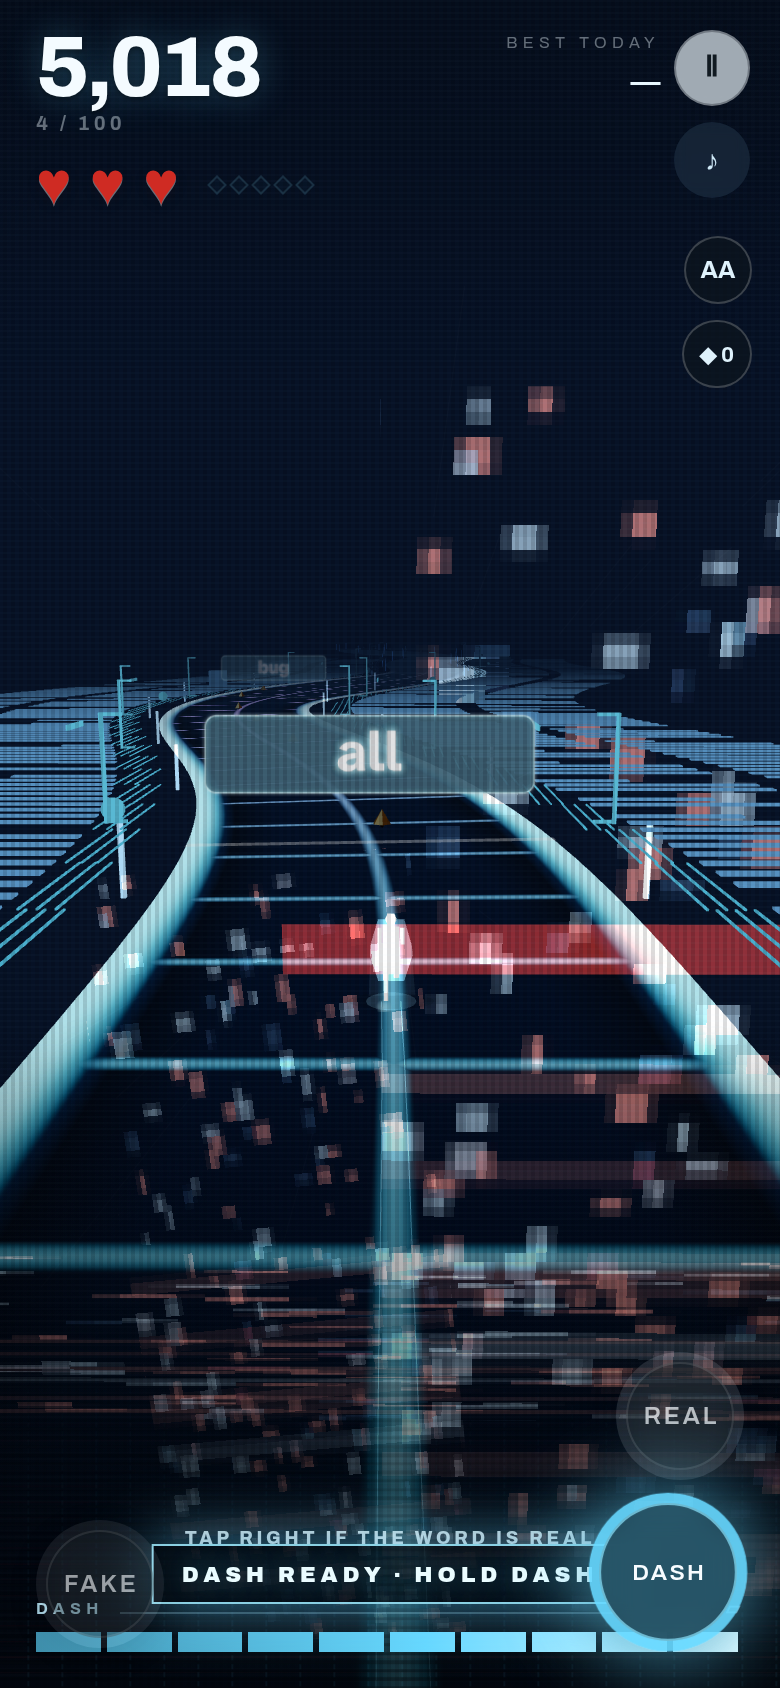
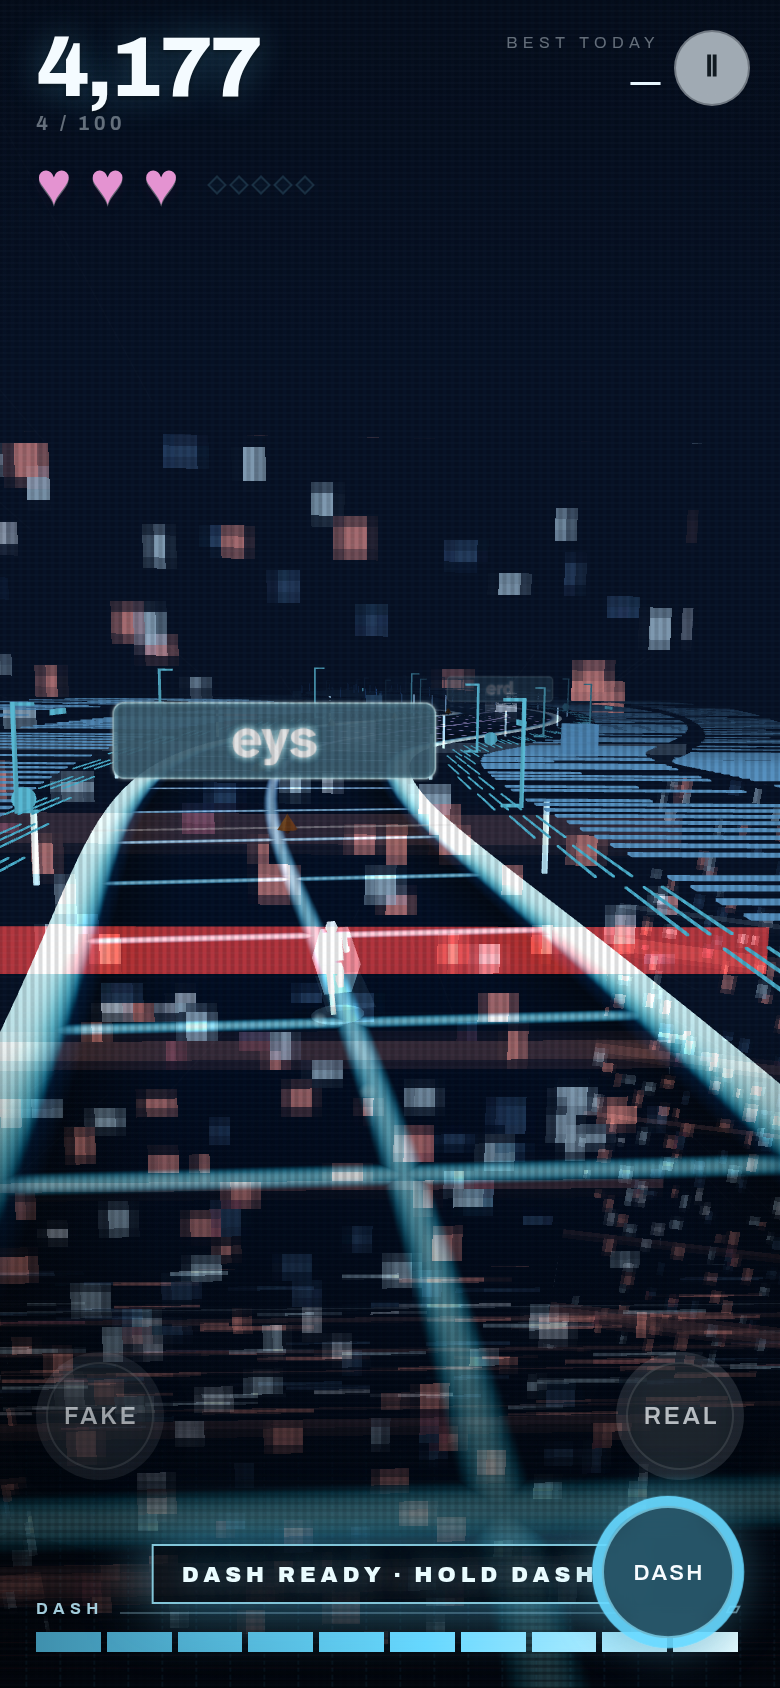
Phase K re-shoot: the stills on geometry that can carry the decision
The four concept frames are re-shot on the Phase L route with the page
layer riding the surface — heightAt under every rule, column and mark,
so the page climbs the banks and folds over the crests. Same driver,
same conventions (DAILY seed, fifth gate, plate ~37.6 m, 36 m/s,
390x844@2x, chain 0/50/150, Redline 16 m and 9 m); this set catches a
banked descent, so K1 and K3 finally read as different game states. No
src/ change — dev-layer surface sampling and a patient screenshot
timeout only. The look decision is REOPENED on these frames; Phase M
and L4/L5 wait on the pick. Stopped here as directed.

Claude-Session: https://claude.ai/code/session_01TDfwjntrxgtKLG2HhWQzYQ

diff --git a/dev/style-lab.js b/dev/style-lab.js
@@ -351,6 +351,10 @@ class PageLayer {
 
     // Margin rules: one hairline each side at every band; a second past
     // chain 50, a third at the full page. Segments of 6 m follow the winding.
+    // Phase L re-shoot: everything rides the routed surface — the page
+    // climbs the banks and folds over the crests instead of lying on a
+    // plane the road no longer is.
+    const ground = (x, d) => this.terrain.heightAt(x, d);
     let r = 0;
     const ruleCount = level >= 4 ? 3 : level >= 2 ? 2 : 1;
     for (let d = dA; d < dB && r < 420; d += 6) {
@@ -358,7 +362,8 @@ class PageLayer {
         for (let k = 0; k < ruleCount; k++) {
           if (r >= 420) break;
           const off = HW + 2.4 + k * 0.55;
-          this._put(this.rules, r++, line(d + 3) + side * off, 0.05, -(d + 3),
+          const x = line(d + 3) + side * off;
+          this._put(this.rules, r++, x, ground(x, d + 3) + 0.05, -(d + 3),
             0.07, 0.06, 6.0);
         }
       }
@@ -383,7 +388,8 @@ class PageLayer {
           const ragged = level >= 4 ? 1 : 0.55 + 0.45 * h32(key + 23);
           const w = colW * (end ? 0.3 + 0.4 * h32(key + 5) : ragged);
           const inner = HW + 4.2 + c * (colW + 2.2);
-          this._put(this.type, t++, line(d) + side * (inner + w / 2), 0.05, -d,
+          const tx = line(d) + side * (inner + w / 2);
+          this._put(this.type, t++, tx, ground(tx, d) + 0.05, -d,
             w, 0.08, ROW_LEN);
         }
       }
@@ -395,14 +401,16 @@ class PageLayer {
     if (level >= 1) {
       for (let d = Math.ceil(dA / 36) * 36; d < dB && s < 40; d += 36) {
         const side = (Math.round(d / 36) % 2) ? 1 : -1;
-        this._put(this.stops, s++, line(d) + side * (HW + 3.3), 0.6, -d, 1.0, 1.0, 1.0);
+        const sx = line(d) + side * (HW + 3.3);
+        this._put(this.stops, s++, sx, ground(sx, d) + 0.6, -d, 1.0, 1.0, 1.0);
       }
     }
     if (level >= 2) {
       for (let d = Math.ceil(dA / 54) * 54 + 18; d < dB && e < 40; d += 54) {
         for (const side of [-1, 1]) {
           if (e >= 40) break;
-          this._put(this.dashes, e++, line(d) + side * (HW + 6.5), 2.4, -d, 0.14, 0.32, 3.0);
+          const ex = line(d) + side * (HW + 6.5);
+          this._put(this.dashes, e++, ex, ground(ex, d) + 2.4, -d, 0.14, 0.32, 3.0);
         }
       }
     }
@@ -411,17 +419,19 @@ class PageLayer {
         for (const side of [-1, 1]) {
           if (b >= 118) break;
           const x = line(d) + side * (HW + 3.6);
+          const gy = ground(x, d);
           // A bracket: the upright, and a return at each end toward the track.
-          this._put(this.brackets, b++, x, 2.3, -d, 0.16, 4.6, 0.16);
-          this._put(this.brackets, b++, x - side * 0.4, 4.55, -d, 0.95, 0.14, 0.16);
-          this._put(this.brackets, b++, x - side * 0.4, 0.09, -d, 0.95, 0.14, 0.16);
+          this._put(this.brackets, b++, x, gy + 2.3, -d, 0.16, 4.6, 0.16);
+          this._put(this.brackets, b++, x - side * 0.4, gy + 4.55, -d, 0.95, 0.14, 0.16);
+          this._put(this.brackets, b++, x - side * 0.4, gy + 0.09, -d, 0.95, 0.14, 0.16);
         }
       }
     }
     if (level >= 4) {
       for (let d = Math.ceil(dA / 72) * 72 + 30; d < dB && c < 12; d += 72) {
         const side = (Math.round(d / 72) % 2) ? -1 : 1;
-        this._put(this.caps, c++, line(d) + side * (HW + 10.5), 1.1, -d, 2.2, 2.2, 2.2);
+        const cxx = line(d) + side * (HW + 10.5);
+        this._put(this.caps, c++, cxx, ground(cxx, d) + 1.1, -d, 2.2, 2.2, 2.2);
       }
     }
     this.stops.count = s; this.dashes.count = e; this.brackets.count = b; this.caps.count = c;

diff --git a/dev/stills/README.md b/dev/stills/README.md
@@ -1,21 +1,30 @@
-# Phase K — concept stills
+# Phase K — concept stills (re-shot on the Phase L route)
 
-## Decision (2026-09-02)
+## The decision is OPEN again (re-shoot, 2026-09-02, same day)
 
-**The look stays as shipped.** The Editorial World is not being built —
-Phases L and M came off the roadmap, and with them the Redline-at-9m
-question (no "editorial correction" is coming; the shipped scream range
-stands as measured in K3b) and the paper-ink hue question. The one thing
-promoted from the style program is the lab's **Broadcast** treatment,
-shipped as an opt-in LOOK toggle (STANDARD / BROADCAST) on the settings
-surface — see `src/render/broadcast-pass.js` and RELEASE.md. The stills
-below stay as the record of what was considered.
+The first set of these stills tested page-bars beside a FLAT road — the
+plate, runner, horizon and palette were identical from K1 to K3, so the
+only honest reading was "the look stays", and that is what was decided.
+That reading was about a weak still, not about the direction: the phase
+that fills the frame (route grammar) had been cut on its evidence.
+
+Phase L (L1–L3) is now built — climbs, descents, banks, crests, one road
+per seed, gameplay byte-identical (see RELEASE.md) — and these four
+frames are re-shot on the routed geometry with the page riding the
+surface: the columns climb the banks and fold over the crests, which is
+what the first shoot could never show. **Pick or redirect the look from
+THESE frames.** Phase M (the Editorial World proper) and L4/L5 (advanced
+segments, authored DAILY composition) wait on the pick; the Broadcast
+settings toggle ships either way.
 
 Four frames of the real game with the dev-only page layer armed
 (`dev/style-lab.js`, `?dev=1&stills=1`). Same seed (the DAILY RUN for
-2026-09-01), same gate (the fifth, word `all`, real), same read moment (plate
-37.8 m ahead), same speed (36 m/s), same portrait frame (390×844 at 2×). The
-only things that change between frames are the chain and the Redline's gap.
+2026-09-02), same gate (the fifth, word `eys`, fake), same read moment (plate
+~37.6 m ahead), same speed (36 m/s), same portrait frame (390×844 at 2×), on
+the ROUTED track — this set happens to catch a banked descent, so the page
+falls away to the right of the frame and the +1 plate is visible far
+downhill. The only things that change between frames are the chain and the
+Redline's gap.
 Every number below was read back from the running page by
 `dev/shoot-stills.mjs` and written to `manifest.json`; nothing is asserted.
 

diff --git a/RELEASE.md b/RELEASE.md
@@ -1415,3 +1415,21 @@ Slice history:
   hint is up, so two teaching sentences never share the frame with the
   plate; every lesson still runs and still retires on its action. Four
   checks under gate:corruption.
+- Phase K re-shoot — the concept stills, on geometry that can carry them.
+  The four frames in `dev/stills/` are re-shot on the Phase L route with
+  the page layer riding the surface (`heightAt` under every rule, column,
+  stop, dash, bracket and drop cap — the page climbs the banks and folds
+  over the crests, which the brief itself said a flat page never could).
+  Same driver, same conventions: one DAILY seed (2026-09-02), one gate
+  (the fifth, word `eys`), the plate ~37.6 m ahead, 36 m/s, 390×844 at
+  2×; chain 0 / 50 / 150 and the Redline at 16 m and 9 m. This set
+  happens to catch a banked descent, so the typeset page falls away down
+  the right of the frame and the +1 plate reads far downhill — K1 and K3
+  finally LOOK like different game states, which is the whole test. The
+  HUD in frame is the reduced one (rose hearts, pause-only chrome). No
+  `src/` change; the only repo edits are the dev page layer's surface
+  sampling and a patient screenshot timeout for software rasterisation.
+  **The look decision is reopened and waits on a human**: the first
+  decision was made against stills that could not show the direction, and
+  these can. Phase M and L4/L5 wait on the pick; the Broadcast toggle
+  ships either way. STOPPED here, as directed.

diff --git a/ROADMAP.md b/ROADMAP.md
@@ -15,11 +15,21 @@ this file only holds what is NOT built yet. The plan is the finishing brief
 
 ## Pass 2 — make it look like nothing else
 
-Closed by the Phase K decision (2026-09-02): the look stays as shipped.
-The Editorial World and its route grammar (Phases L and M) are not being
-built; the stills and the decision live in `dev/stills/`. Phase N shipped
-reshaped — the style lab's Broadcast treatment as an opt-in LOOK toggle
-on the settings surface, never the default (see RELEASE.md).
+Phase L (L1–L3) is BUILT — route grammar: climbs, descents, banks and
+crests as a seeded walk, gameplay byte-identical, every reading number
+measured and gated (`tools/route-gates.mjs`; RELEASE.md). Phase N shipped
+reshaped — the Broadcast treatment as an opt-in LOOK toggle. The K stills
+were re-shot on the routed geometry with the page riding the surface,
+because the first set tested bars beside a flat road and could not carry
+the decision it was asked to carry.
+
+- **[MP] The look pick, on the re-shot stills** in `dev/stills/`. Open
+  again, and now a fair test. Everything below waits on it.
+- **Phase L4/L5 — advanced segments and the authored DAILY.** Canyon,
+  tunnel, corkscrew, negative-space drop, pursuit-narrows; authored DAILY
+  composition + ENDLESS escalation walk. After the pick.
+- **Phase M — the Editorial World.** As specified in the brief, IF the
+  re-shot stills win the pick.
 
 ## Pass 3 — competition — HELD until released by a human
 
